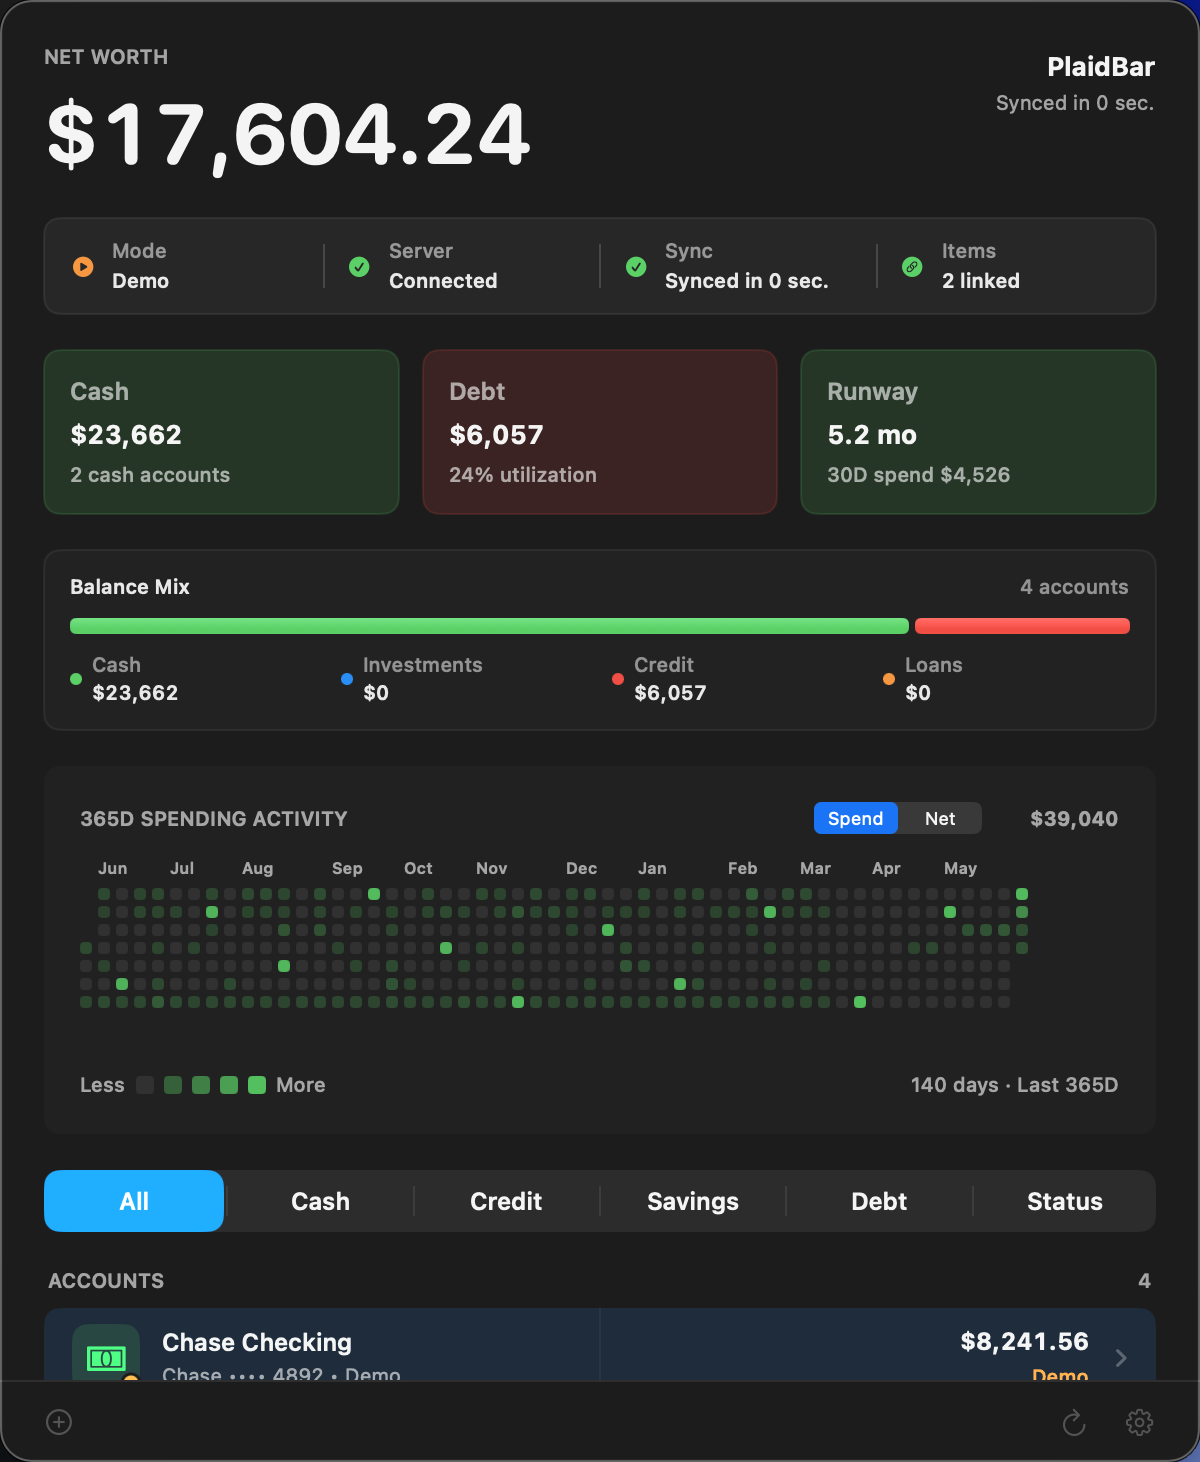
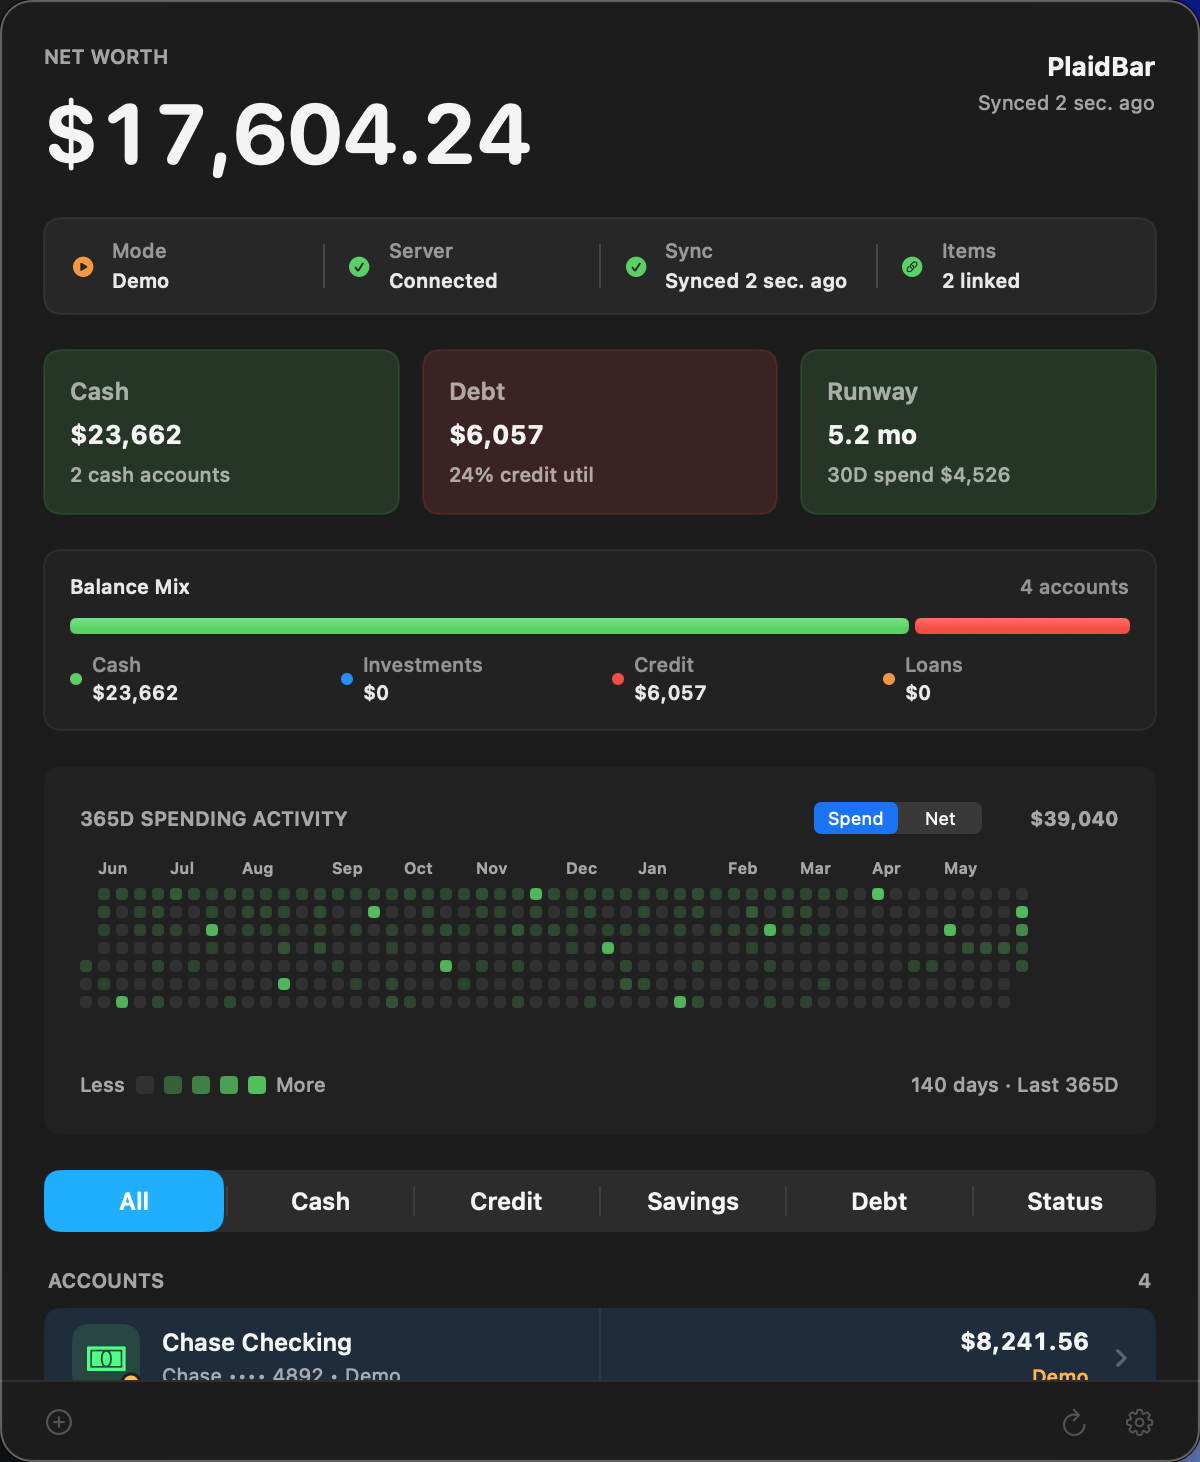
Refresh README screenshots for dashboard design

diff --git a/Sources/PlaidBar/App/PlaidBarApp.swift b/Sources/PlaidBar/App/PlaidBarApp.swift
@@ -8,6 +8,8 @@ struct PlaidBarApp: App {
     private let updaterController: SPUStandardUpdaterController
 
     init() {
+        Self.applyScreenshotDefaults()
+
         let state = AppState()
         _appState = State(initialValue: state)
         updaterController = SPUStandardUpdaterController(
@@ -38,5 +40,33 @@ struct PlaidBarApp: App {
             SettingsView(updater: updaterController.updater)
                 .environment(appState)
         }
+    }
+
+    private static func applyScreenshotDefaults() {
+        guard CommandLine.arguments.contains("--demo") else { return }
+
+        if let filter = argumentValue(for: "--screenshot-filter") {
+            let normalizedFilter = ["all", "cash", "credit", "savings", "debt", "status"]
+                .first { $0 == filter.lowercased() }
+                .map { $0.prefix(1).uppercased() + $0.dropFirst() }
+
+            if let normalizedFilter {
+                UserDefaults.standard.set(String(normalizedFilter), forKey: "dashboard.accountFilter")
+            }
+        }
+
+        if let accountId = argumentValue(for: "--screenshot-account") {
+            UserDefaults.standard.set(accountId, forKey: "dashboard.selectedAccountId")
+        } else if CommandLine.arguments.contains("--screenshot-filter") {
+            UserDefaults.standard.removeObject(forKey: "dashboard.selectedAccountId")
+        }
+    }
+
+    private static func argumentValue(for flag: String) -> String? {
+        guard let index = CommandLine.arguments.firstIndex(of: flag),
+              index + 1 < CommandLine.arguments.count else {
+            return nil
+        }
+        return CommandLine.arguments[index + 1]
     }
 }

diff --git a/README.md b/README.md
@@ -50,34 +50,34 @@ Personal finance data lives behind bank website logins. The closest thing to a m
   <img src="Assets/dashboard.png" width="420" alt="PlaidBar dashboard popover with net worth, sync status, 365-day spending activity, account rows, and drill-down controls"/>
 </p>
 
-The main popover is designed to answer the common questions first: cash on hand,
-credit exposure, savings, debt, sync health, and the last year of spending
-activity. Account rows expand in place, so a quick balance check can turn into a
-targeted refresh, reconnect, or transaction review without opening another app.
+The current app is dashboard-first. The main popover answers the common
+questions first: cash on hand, credit exposure, savings, debt, sync health, and
+the last year of spending activity. Filtered states keep the same visual system
+while focusing the account list and drill-down controls.
 
-| Dashboard | Accounts |
-|-----------|----------|
-| <img src="Assets/dashboard.png" width="380" alt="Dashboard popover with net worth, sync state, spending activity, filters, and account rows"> | <img src="Assets/accounts.png" width="380" alt="Accounts screen showing cash, credit, savings, and debt accounts with balances and status indicators"> |
-| Net worth, cash, credit, savings, debt, sync state, and the 365-day activity heatmap in one menu bar surface. | Account groups make it easy to scan balances by type and spot stale, reconnecting, or error states. |
+| Overview | Cash |
+|----------|------|
+| <img src="Assets/dashboard.png" width="380" alt="Dashboard overview with net worth, sync state, balance mix, spending activity, filters, and account rows"> | <img src="Assets/dashboard-cash.png" width="380" alt="Dashboard cash filter showing depository accounts, balances, sync state, spending activity, and selected account details"> |
+| Net worth, cash, debt, runway, balance mix, sync state, and 365-day spending activity in one menu bar surface. | Cash-focused account review with checking and savings balances surfaced under the same dashboard controls. |
 
-| Transactions | Spending |
-|--------------|----------|
-| <img src="Assets/transactions.png" width="380" alt="Transactions screen showing grouped recent transactions with merchant names, dates, categories, and amounts"> | <img src="Assets/spending.png" width="380" alt="Spending screen showing heatmap, trend chart, and income versus expense breakdowns"> |
-| Recent activity is grouped for fast audit-style review, with clear inflow/outflow treatment and merchant/category context. | Spend and net modes show daily activity, trend direction, and income-versus-expense movement over time. |
+| Credit | Savings |
+|--------|---------|
+| <img src="Assets/dashboard-credit.png" width="380" alt="Dashboard credit filter showing credit card accounts, debt summary, utilization, and selected card details"> | <img src="Assets/dashboard-savings.png" width="380" alt="Dashboard savings filter showing savings account balances and selected account detail controls"> |
+| Credit cards, utilization, limits, pending activity, and reconnect/refresh controls without leaving the popover. | Savings view narrows the account surface while preserving balance mix, spending context, and sync health. |
 
-| Credit | Recurring |
-|--------|-----------|
-| <img src="Assets/credit.png" width="380" alt="Credit screen showing utilization gauges, card balances, limits, and warning thresholds"> | <img src="Assets/recurring.png" width="380" alt="Recurring screen showing detected subscriptions and recurring charges with monthly total"> |
-| Utilization gauges and warning thresholds surface cards that need attention before they become a credit-score problem. | Recurring detection turns transaction history into a subscription-style view with estimated monthly impact. |
+| Debt | Status |
+|------|--------|
+| <img src="Assets/dashboard-debt.png" width="380" alt="Dashboard debt filter showing debt-oriented accounts and selected credit account detail"> | <img src="Assets/dashboard-status.png" width="380" alt="Dashboard status filter showing linked item health, server sync state, and account status context"> |
+| Debt view emphasizes owed balances and high-utilization cards so risk is visible at a glance. | Status view keeps linked-item health, local server status, sync recency, and account recovery paths close to the data. |
 
-Generate a fresh dashboard screenshot with demo data:
+Generate fresh dashboard screenshots with demo data:
 
 ```bash
 ./Scripts/screenshots.sh
 ```
 
-The screenshot script launches PlaidBar in demo mode, captures the main
-popover, and requires macOS Screen Recording permission for Terminal.
+The screenshot script launches PlaidBar in demo mode, captures each dashboard
+filter state, and requires macOS Screen Recording permission for Terminal.
 
 ## Quick Start
 